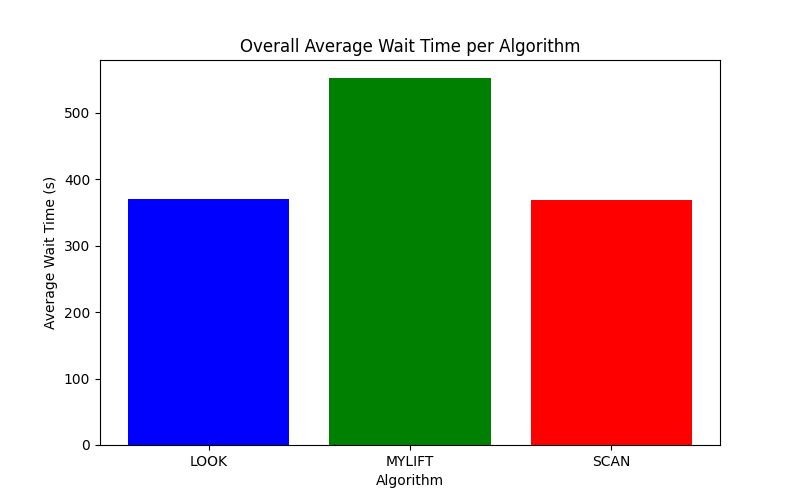
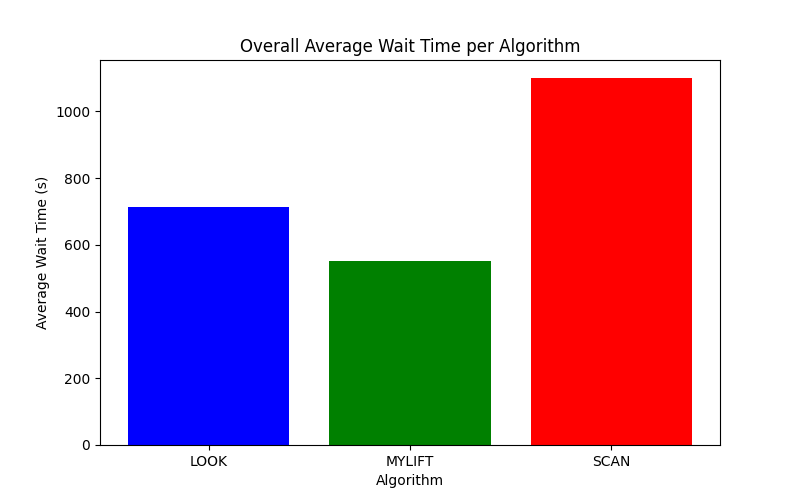
New Rafe Changes - correct data, updated main.py and Analysis

diff --git a/sources/main.py b/sources/main.py
@@ -23,11 +23,15 @@ def run_simulation(input_file_path):#runs each of the 3 algorithms on the given 
     total_floors, max_capacity= check_floors_and_capacity(input_file_path, dataset_index=0) #floors, capacity
     requests_data = validate_requests(input_file_path, dataset_index=0) #list of requests
     
-
+    # new total requests
+    total_requests = sum(len(destinations) for destinations in requests_data.values())
+    
     requests = []
     for start_floor, destination_floors in requests_data.items():
         for destination_floor in destination_floors:
             requests.append(Request(start_floor, destination_floor))
+
+    total_requests = len(requests)
 
     #run the algorithms
     scan_time = SCAN(total_floors, max_capacity, requests_data, TIME_TAKEN_FOR_LIFT_TO_TRAVEL_BETWEEN_FLOORS, TIME_TAKEN_FOR_PEOPLE_TO_EXIT_LIFT).calculate_total_time()
@@ -40,46 +44,60 @@ def run_simulation(input_file_path):#runs each of the 3 algorithms on the given 
 
     mylift_time = mylift.run()
 
-    return scan_time, look_time, mylift_time
+    return scan_time, look_time, mylift_time, total_requests
 
 
-def write_performance_to_csv(results):#writes the performance results to CSV files and creates both individual input CSVs and the aggregate average CSV.
+def write_performance_to_csv(results):
     algorithms = ["SCAN", "LOOK", "MYLIFT"]
-    
-    #gather individual input data
+
+    # Write individual input results
     for i, (input_file, times) in enumerate(results.items(), start=1):
         input_file_name = f"lift_performance_input{i}.csv"
-        print(f"Writing to {input_file_name}")  #debugging print for file path
+        print(f"Writing to {input_file_name}")
         with open(input_file_name, mode='w', newline='') as file:
             writer = csv.writer(file)
             writer.writerow(["Algorithm", "Avg_Wait_Time", "Requests_Served", "Efficiency_Score"])
-            for algorithm, time in times.items():
-                #placeholder calculations for Avg_Wait_Time, Requests_Served, and Efficiency_Score
-                avg_wait_time = time  #example placeholder; should be refined based on actual data
-                requests_served = len(times)  #example placeholder; should be refined based on actual requests processed
-                efficiency_score = requests_served / avg_wait_time  #example formula; should be refined
+            
+            for algorithm in algorithms:
+                algorithm_data = times.get(algorithm, {})
+                avg_wait_time = algorithm_data.get("time", 0)  # Extract time
+                requests_served = algorithm_data.get("requests", 0)  # Extract requests
+
+                if not isinstance(avg_wait_time, (int, float)):
+                    avg_wait_time = 0  # Fallback for safety
+                
+                efficiency_score = requests_served / avg_wait_time if avg_wait_time > 0 else 0
+                
                 writer.writerow([algorithm, avg_wait_time, requests_served, efficiency_score])
 
-    #prepare aggregate/average data
+    # Compute average results across inputs
     avg_wait_times = {algorithm: 0 for algorithm in algorithms}
     avg_requests_served = {algorithm: 0 for algorithm in algorithms}
     avg_efficiency_scores = {algorithm: 0 for algorithm in algorithms}
     
     num_files = len(results)
-    
-    #averages for each algorithm
+
+    # Compute total sums for averaging
     for times in results.values():
         for algorithm in algorithms:
-            avg_wait_times[algorithm] += times[algorithm]  #placeholder, needs refinement
-            avg_requests_served[algorithm] += len(times)  #placeholder, needs refinement
-            avg_efficiency_scores[algorithm] += len(times) / times[algorithm]  #placeholder formula
-    
+            algorithm_data = times.get(algorithm, {})
+            wait_time = algorithm_data.get("time", 0)
+            requests = algorithm_data.get("requests", 0)
+
+            if not isinstance(wait_time, (int, float)):
+                wait_time = 0  
+            
+            avg_wait_times[algorithm] += wait_time
+            avg_requests_served[algorithm] += requests
+            avg_efficiency_scores[algorithm] += (requests / wait_time if wait_time > 0 else 0)
+
+    # Compute actual averages
     for algorithm in algorithms:
         avg_wait_times[algorithm] /= num_files
         avg_requests_served[algorithm] /= num_files
         avg_efficiency_scores[algorithm] /= num_files
 
-    #average data to aggregate CSV
+    # Write aggregate data to `lift_performance.csv`
     with open("lift_performance.csv", mode='w', newline='') as file:
         writer = csv.writer(file)
         writer.writerow(["Algorithm", "Avg_Wait_Time", "Requests_Served", "Efficiency_Score"])
@@ -92,6 +110,7 @@ def write_performance_to_csv(results):#writes the performance results to CSV fil
             ])
         
     print("CSV files have been created successfully.")
+
 
 
 def main():
@@ -114,18 +133,18 @@ def main():
     results = {}
 
     for i, file_path in enumerate(input_files, start=1):
-        scan_time, look_time, mylift_time = run_simulation(file_path)
+        scan_time, look_time, mylift_time, total_requests = run_simulation(file_path)
         results[f"input{i}"] = {
-            "SCAN": scan_time,
-            "LOOK": look_time,
-            "MYLIFT": mylift_time
+            "SCAN": {"time": scan_time, "requests": total_requests},
+            "LOOK": {"time": look_time, "requests": total_requests},
+            "MYLIFT": {"time": mylift_time, "requests": total_requests}
         }
 
     #printing results
     for input_file, times in results.items():
         print(f"\nResults for {input_file}:")
-        for algorithm, time in times.items():
-            print(f"  {algorithm}: {time} seconds")
+        for algorithm, data in times.items():
+            print(f"  {algorithm}: {data['time']} seconds, Requests Served: {data['requests']}")
 
 
     #results to CSV files
